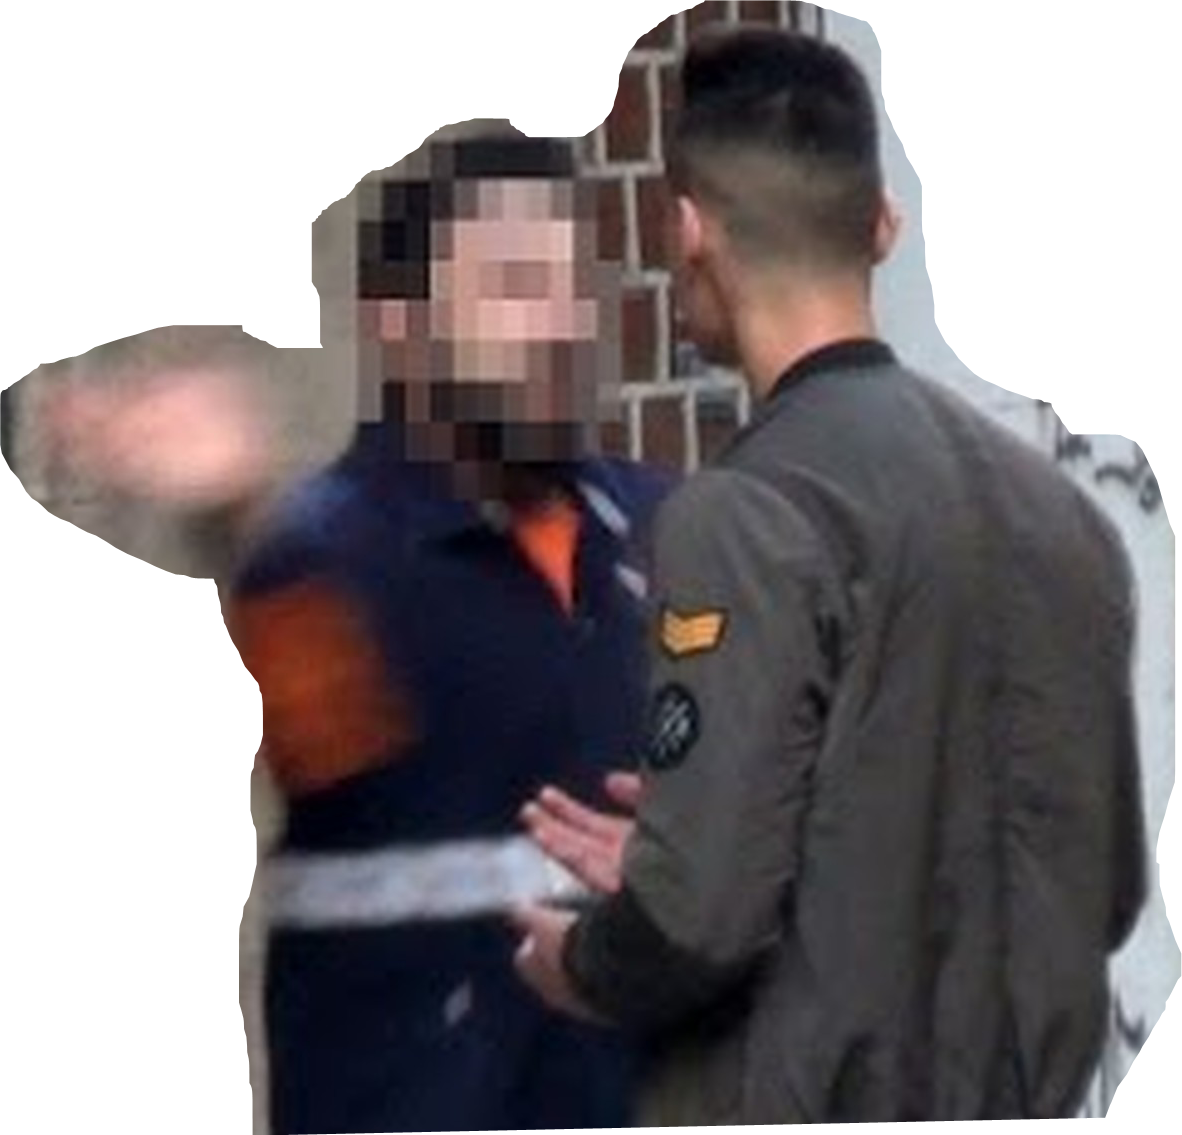
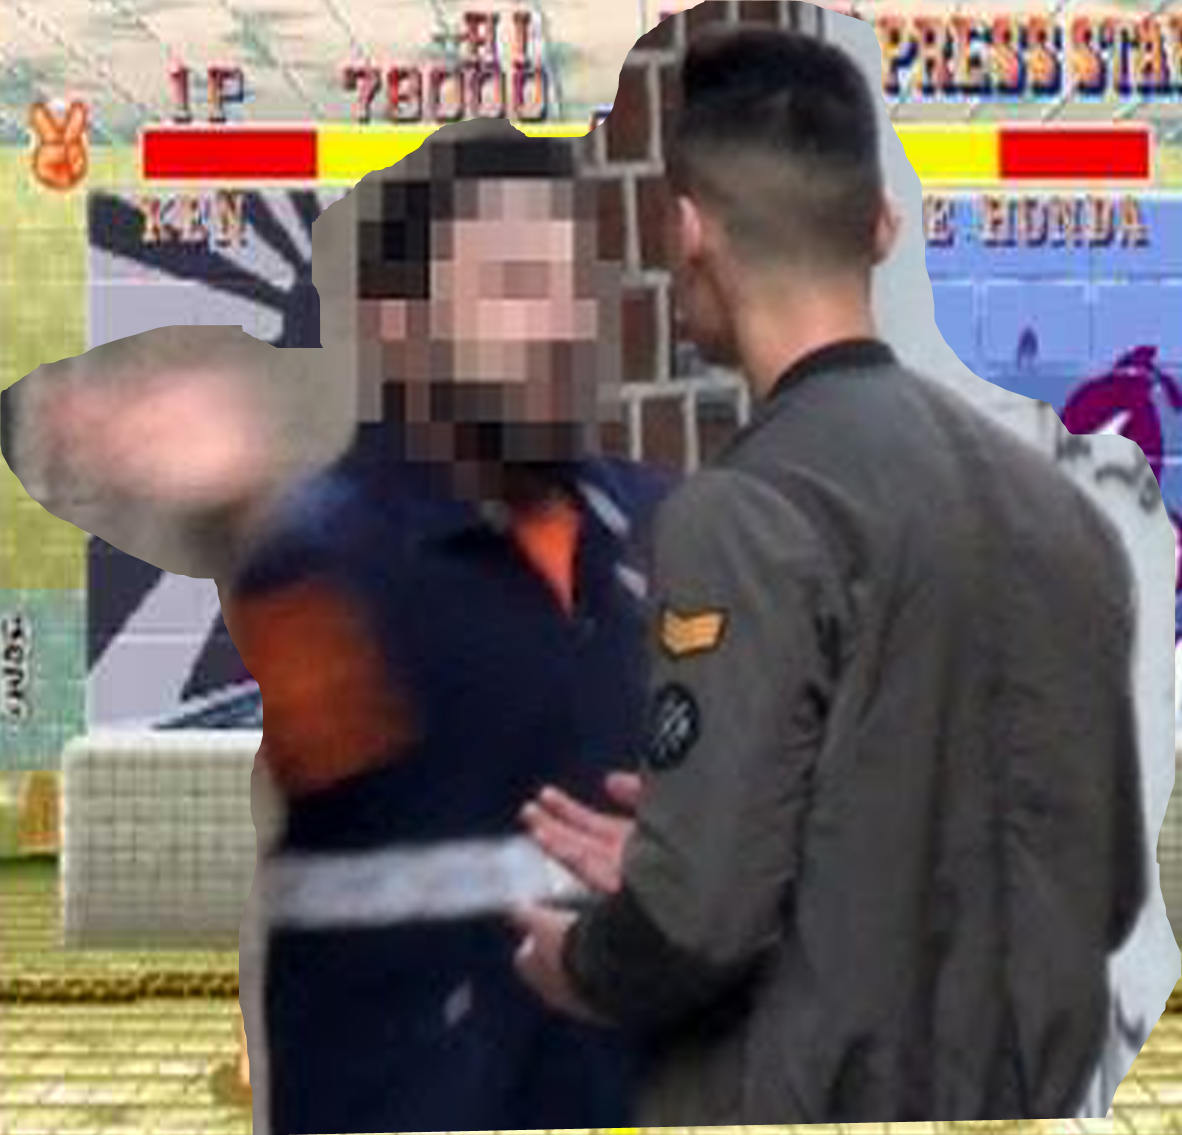
new images

diff --git a/caranchoa.js b/caranchoa.js
@@ -17,7 +17,7 @@ window.addEventListener('click', function (evt) {
         document.body.appendChild(img);
         document.body.insertBefore(img, document.body.firstChild);
         img.src = "https://github.com/rpelaez/caranchoa/raw/master/caranchoa1.png";
-        img.width= "150";
+        img.width= "600";
         document.onmousemove = updateAvatarPosition( evt, img)
         img.style.float= "left";
         img.style.position="relative"
@@ -28,14 +28,14 @@ window.addEventListener('click', function (evt) {
     	audioElement.currentTime = 0;
         audioElement.play();
         
-        sleep(100).then(() => {
+        sleep(400).then(() => {
         	img.remove();
         	img = document.createElement('img');
         	document.onmousemove = updateAvatarPosition( evt, img)
        		document.body.appendChild(img);
        		document.body.insertBefore(img, document.body.firstChild);
     		img.src = "https://github.com/rpelaez/caranchoa/raw/master/caranchoa2.png";
-    		img.width= "150";
+    		img.width= "600";
     		document.onmousemove = updateAvatarPosition( evt, img)
     		img.style.float= "left";
     		img.style.position="relative"
@@ -43,7 +43,7 @@ window.addEventListener('click', function (evt) {
     		
     		
     	});
-    	sleep(1000).then(() => {
+    	sleep(2000).then(() => {
     		img.remove();
     	});
     } 
